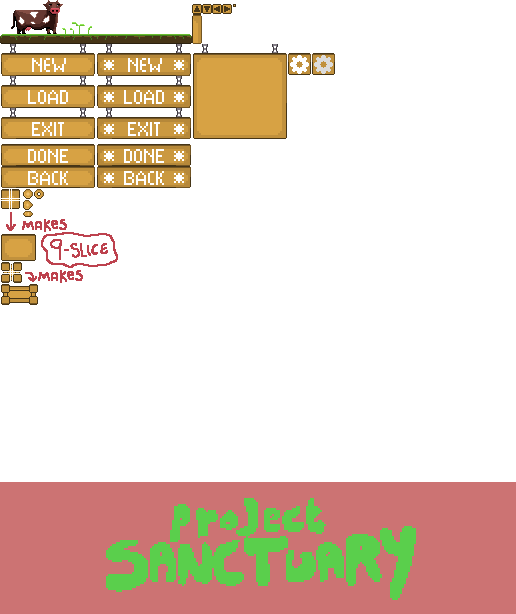
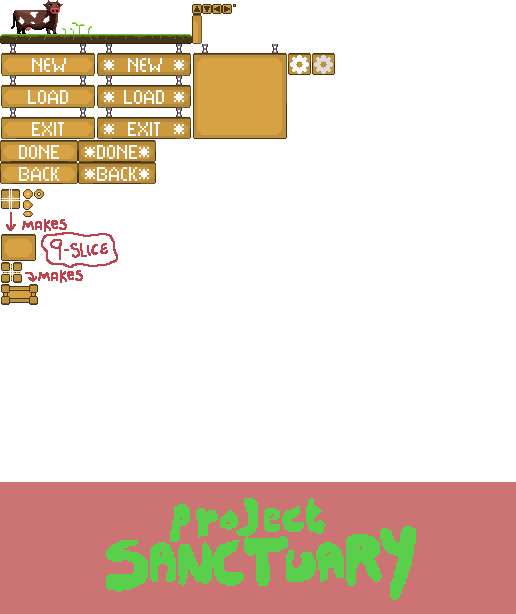
Update title menu buttons

Changed region(s): [[0.0, 0.2166, 0.3721, 0.3094]]

diff --git a/src/Application/Menus/CharacterCreationMenu.cs b/src/Application/Menus/CharacterCreationMenu.cs
@@ -45,6 +45,9 @@ namespace Application.Menus
             var interfaceFont = ContentChest.Instance.Get<SpriteFont>("Fonts/InterfaceFont");
             var inputBoxFont = ContentChest.Instance.Get<SpriteFont>("Fonts/InputBoxFont");
 
+            var portraitTexture = ContentChest.Instance.Get<Texture2D>("portrait_background");
+            var portraitImage = new Sprite(portraitTexture);
+            
             var nineSlice = new NineSlice(_menuButtons, new Dictionary<Segment, Rectangle>
             {
                 {Segment.TopLeft, new Rectangle(1, 189, 8, 9)},
@@ -58,21 +61,22 @@ namespace Application.Menus
                 {Segment.Center, new Rectangle(10, 199, 1, 1)}
             });
 
-            var panelWidth = (int) (96 * _buttonScale * 2 + 30);
+            var panelWidth = (int) (30 + 200 + 30 + portraitImage.Texture.Width * _buttonScale + 30);
             _panel = new Panel(nineSlice,
                 new Rectangle(
                     (int) (ViewManager.ViewPort.Center().X - panelWidth / 2f),
                     (int) (ViewManager.ViewPort.Center().Y - (500 + 30 + 22 * _buttonScale) / 2f), panelWidth,
                     500), _buttonScale);
+            
             BackButton = new TexturedButton(
-                new Sprite(_menuButtons, new Rectangle(0, 166, 96, 22)),
-                new Sprite(_menuButtons, new Rectangle(96, 166, 96, 22)),
-                new Vector2(_panel.BottomLeft().X + 96 * _buttonScale / 2f,
+                new Sprite(_menuButtons, new Rectangle(0, 162, 78, 22)),
+                new Sprite(_menuButtons, new Rectangle(78, 162, 78, 22)),
+                new Vector2(_panel.BottomLeft().X + 78 * _buttonScale / 2f,
                     _panel.BottomLeft().Y + (22 / 2f * _buttonScale) + 10), _buttonScale);
             DoneButton = new TexturedButton(
-                new Sprite(_menuButtons, new Rectangle(0, 144, 96, 22)),
-                new Sprite(_menuButtons, new Rectangle(96, 144, 96, 22)),
-                new Vector2(_panel.BottomRight().X - 96 * _buttonScale / 2f,
+                new Sprite(_menuButtons, new Rectangle(0, 140, 78, 22)),
+                new Sprite(_menuButtons, new Rectangle(78, 140, 78, 22)),
+                new Vector2(_panel.BottomRight().X - 78 * _buttonScale / 2f,
                     _panel.BottomLeft().Y + (22 / 2f * _buttonScale) + 10), _buttonScale);
             var nameSectionPosition = new Vector2(_panel.Left() + 30,
                 _panel.Top() + 30);
@@ -86,8 +90,6 @@ namespace Application.Menus
                 pronounSectionPosition + new Vector2(0, interfaceFont.MeasureString("Pronouns").Y + 10),
                 SanctuaryGame.OptionsManager.PronounOptions.Pronouns.Select(x =>
                     $"{x.Subjective}/{x.Objective}").ToArray(), 200);
-            var portraitTexture = ContentChest.Instance.Get<Texture2D>("portrait_background");
-            var portraitImage = new Sprite(portraitTexture);
             var characterPanel = new Image(portraitImage,
                 new Vector2(
                     PronounDropDown.Bounds.Right + 30 +
@@ -103,6 +105,8 @@ namespace Application.Menus
                 new Vector2(hairText.Left(), hairText.BottomLeft().Y + 10),
                 new []{ "Long", "Short" }, 200);
 
+
+            
             Clickables.Add(BackButton);
             Clickables.Add(DoneButton);
             _panel.AddChild(pronounTextBoxTitle);

diff --git a/src/Application/Menus/MainOptionsMenu.cs b/src/Application/Menus/MainOptionsMenu.cs
@@ -33,9 +33,9 @@ namespace Application.Menus
             Clickables.Clear();
 
             BackButton = new TexturedButton(
-                new Sprite(_menuButtons, new Rectangle(0, 166, 96, 22)),
-                new Sprite(_menuButtons, new Rectangle(96, 166, 96, 22)),
-                new Vector2(ViewManager.ViewPort.Bounds.Left + 10 + 96 * _buttonScale / 2f,
+                new Sprite(_menuButtons, new Rectangle(0, 162, 78, 22)),
+                new Sprite(_menuButtons, new Rectangle(78, 162, 78, 22)),
+                new Vector2(ViewManager.ViewPort.Bounds.Left + 10 + 78 * _buttonScale / 2f,
                     ViewManager.ViewPort.Bounds.Bottom - (22 / 2f * _buttonScale) - 10), _buttonScale);
 
             Clickables.Add(BackButton as IClickable);
